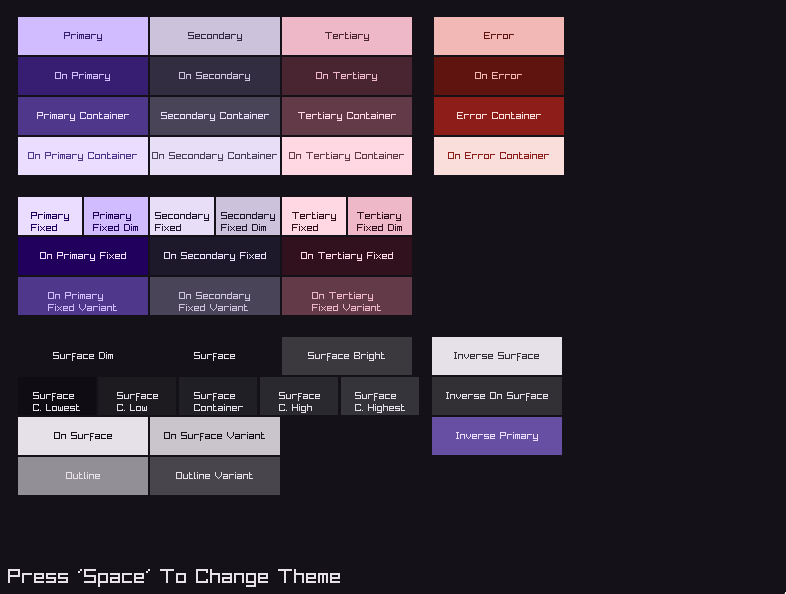
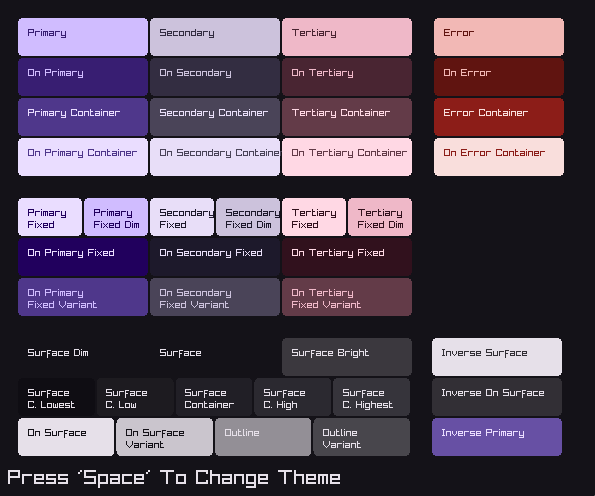
Cleaned up the demo layout

diff --git a/src/demo.c b/src/demo.c
@@ -5,9 +5,8 @@
 #define RL(C) (Color){(C).r,(C).g,(C).b,(C).a}
 
 void DrawColorCard(const char* text, float x, float y, float w, float h, Color bg, Color textCol) {
-    DrawRectangle(x, y, w, h, bg);
-    int textWidth = MeasureText(text, 10);
-    DrawText(text, x + (w - textWidth) / 2, y + (h - 10) / 2, 10, textCol);
+    DrawRectangleRounded((Rectangle){x, y, w, h}, 0.25, 10, bg);
+    DrawText(text, x+10, y+10, 10, textCol);
 }
 
 void DrawLayout(int t) {
@@ -73,7 +72,7 @@ void DrawLayout(int t) {
     DrawColorCard("Inverse Surface", inverse_start_x, y, w_full, h, RL(COLOR.Scheme.InverseSurface[t]), RL(COLOR.Scheme.InverseOnSurface[t]));
 
     y += h + gap; x = start_x;
-    float w_container = ((w_full * 3 + gap * 2) / 5.0f);
+    float w_container = (w_full * 3 + gap * 2) / 5.0f - gap;
     DrawColorCard("Surface\nC. Lowest", x, y, w_container, h, RL(COLOR.Scheme.SurfaceContainerLowest[t]), RL(COLOR.Scheme.OnSurface[t])); x += w_container + gap;
     DrawColorCard("Surface\nC. Low", x, y, w_container, h, RL(COLOR.Scheme.SurfaceContainerLow[t]), RL(COLOR.Scheme.OnSurface[t])); x += w_container + gap;
     DrawColorCard("Surface\nContainer", x, y, w_container, h, RL(COLOR.Scheme.SurfaceContainer[t]), RL(COLOR.Scheme.OnSurface[t])); x += w_container + gap;
@@ -83,24 +82,23 @@ void DrawLayout(int t) {
     DrawColorCard("Inverse On Surface", inverse_start_x, y, w_full, h, RL(COLOR.Scheme.InverseOnSurface[t]), RL(COLOR.Scheme.InverseSurface[t]));
 
     y += h + gap; x = start_x;
-    DrawColorCard("On Surface", x, y, w_full, h, RL(COLOR.Scheme.OnSurface[t]), RL(COLOR.Scheme.Surface[t])); x += w_full + gap;
-    DrawColorCard("On Surface Variant", x, y, w_full, h, RL(COLOR.Scheme.OnSurfaceVariant[t]), RL(COLOR.Scheme.Surface[t]));
+    w_container = (w_full * 3 + gap * 2) / 4.0f - gap;
+    DrawColorCard("On Surface", x, y, w_container, h, RL(COLOR.Scheme.OnSurface[t]), RL(COLOR.Scheme.Surface[t])); x += w_container + gap;
+    DrawColorCard("On Surface\nVariant", x, y, w_container, h, RL(COLOR.Scheme.OnSurfaceVariant[t]), RL(COLOR.Scheme.Surface[t])); x += w_container + gap;
+    DrawColorCard("Outline", x, y, w_container, h, RL(COLOR.Scheme.Outline[t]), RL(COLOR.Scheme.OnSurface[t])); x += w_container + gap;
+    DrawColorCard("Outline\nVariant", x, y, w_container, h, RL(COLOR.Scheme.OutlineVariant[t]), RL(COLOR.Scheme.OnSurface[t]));
 
     DrawColorCard("Inverse Primary", inverse_start_x, y, w_full, h, RL(COLOR.Scheme.InversePrimary[t]), RL(COLOR.Scheme.OnPrimaryContainer[t]));
-
-    y += h + gap; x = start_x;
-    DrawColorCard("Outline", x, y, w_full, h, RL(COLOR.Scheme.Outline[t]), RL(COLOR.Scheme.OnSurface[t])); x += w_full + gap;
-    DrawColorCard("Outline Variant", x, y, w_full, h, RL(COLOR.Scheme.OutlineVariant[t]), RL(COLOR.Scheme.OnSurface[t]));
 }
 
 int main(void) {
     md_init_global_color();
 
     SetConfigFlags(FLAG_WINDOW_RESIZABLE | FLAG_WINDOW_ALWAYS_RUN);
-    InitWindow(800, 600, "FLOAT");
+    InitWindow(600, 500, "FLOAT");
     SetTargetFPS(500);
 
-    int themeIndex = 1;
+    int themeIndex = 0;
     while (!WindowShouldClose()) {
         if (IsKeyPressed(KEY_SPACE)) themeIndex = !themeIndex;
 
@@ -113,7 +111,7 @@ int main(void) {
         ClearBackground(RL(COLOR.Scheme.Background[themeIndex]));
         DrawLayout(themeIndex);
 
-        DrawText("Press 'Space' To Change Theme", 10, 570, 20, RL(COLOR.Scheme.OnBackground[themeIndex]));
+        DrawText("Press 'Space' To Change Theme", 10, 470, 20, RL(COLOR.Scheme.OnBackground[themeIndex]));
 
         // DrawFPS(0,0);
         EndDrawing();

diff --git a/nob.c b/nob.c
@@ -28,9 +28,9 @@ int main(int argc, char **argv) {
     nob_cc(&cmd);
     cmd_append(&cmd, "-Wall", "-Wextra", "-g", "-std=gnu99");
     // cmd_append(&cmd, "-Wno-unused-parameter", "-Wno-unused-variable");
-    // cmd_append(&cmd, "-fsanitize=address", "-fsanitize=leak", "-fsanitize=undefined", "-fsanitize=null");
+    cmd_append(&cmd, "-fsanitize=address", "-fsanitize=leak", "-fsanitize=undefined", "-fsanitize=null");
     cmd_append(&cmd, "-L./thirdparty/raylib-5.5_linux_amd64/lib/");
-    cmd_append(&cmd, "-o", BUILD"exe", SRC"main.c");
+    cmd_append(&cmd, "-o", BUILD"exe", SRC"demo.c");
     cmd_append(&cmd, "-lm", "-lraylib");
     if (!cmd_run(&cmd)) return 1;
 
